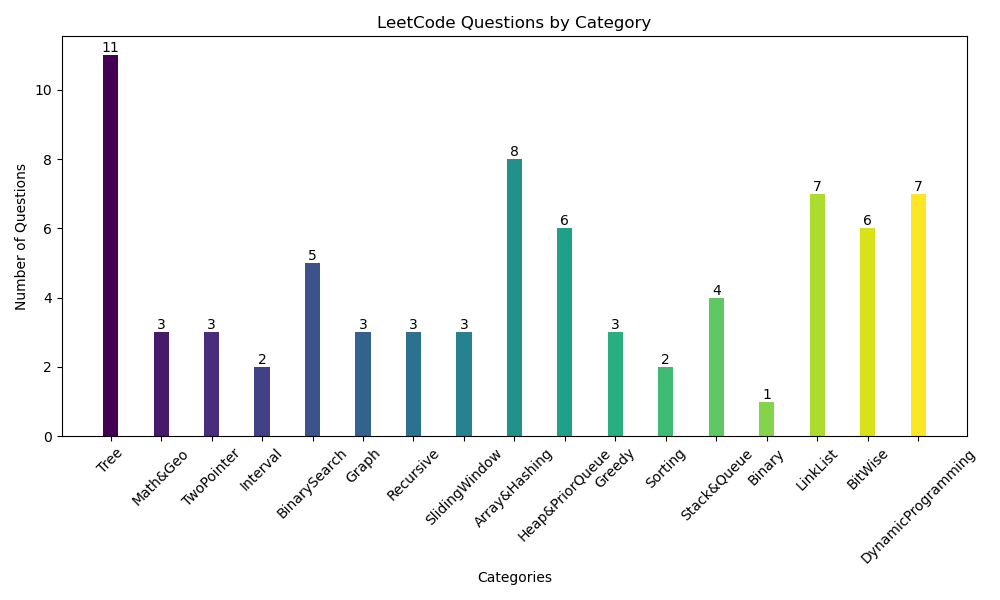
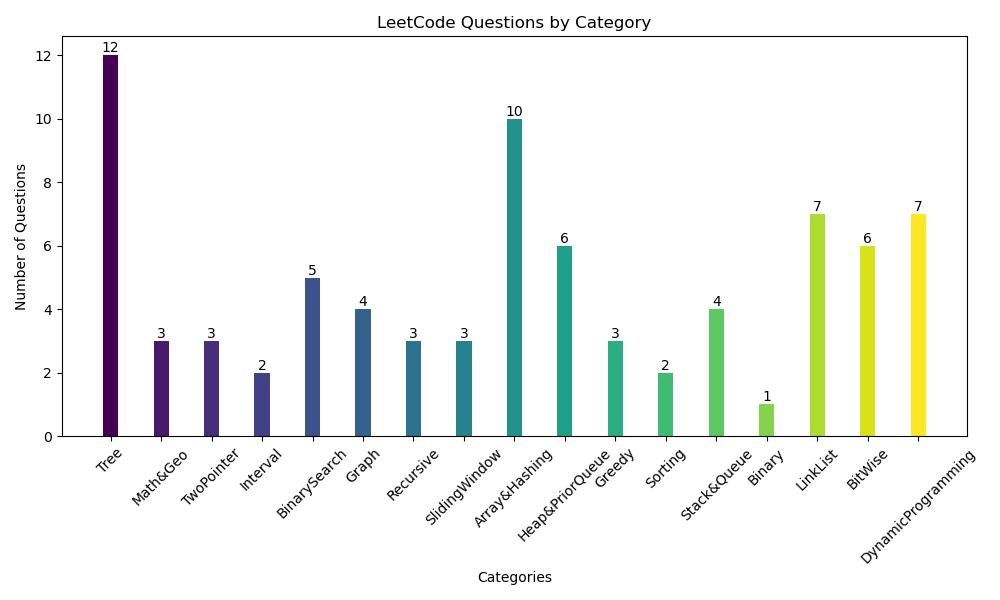
3/30 pratice

diff --git a/Graph/islandTreasure.cpp b/Graph/islandTreasure.cpp
@@ -1,0 +1,65 @@
+/*
+    從treasure出發BFS
+*/
+#include <iostream>
+#include <queue>
+#include <vector>
+using namespace std;
+class Solution {
+  public:
+	void islandsAndTreasure(vector<vector<int>> &grid) {
+		queue<pair<int, int>> treasures;
+		int m = grid.size();
+		int n = grid[0].size();
+		for (int i = 0; i < grid.size(); ++i) {
+			for (int j = 0; j < grid[i].size(); ++j) {
+				if (grid[i][j] == 0) {
+					treasures.push({i, j});
+				}
+			}
+		}
+		visit.resize(m, vector<bool>(n, false));
+		while (!treasures.empty()) {
+			for (auto &row : visit) {
+				fill(row.begin(), row.end(), false);
+			}
+			pair<int, int> t = treasures.front();
+			bfs(grid, t.first, t.second, 0);
+			treasures.pop();
+		}
+	}
+
+  private:
+	vector<vector<bool>> visit;
+	void bfs(vector<vector<int>> &grid, int i, int j, int step) {
+		if (i < 0 || j < 0 || i >= grid.size() || j >= grid[i].size()) {
+			return;
+		}
+		if (grid[i][j] == -1)
+			return;
+
+		if (grid[i][j] > 0) {
+			grid[i][j] = min(grid[i][j], step);
+		}
+		if (visit[i][j])
+			return;
+		visit[i][j] = true;
+		bfs(grid, i + 1, j, step + 1);
+		bfs(grid, i - 1, j, step + 1);
+		bfs(grid, i, j + 1, step + 1);
+		bfs(grid, i, j - 1, step + 1);
+	}
+};
+int main() {
+	vector<vector<int>> map = {{2147483647, 2147483647, 2147483647},
+	                           {2147483647, -1, 2147483647},
+	                           {0, 2147483647, 2147483647}};
+	Solution sol;
+	sol.islandsAndTreasure(map);
+	for (int i = 0; i < map.size(); ++i) {
+		for (int j = 0; j < map[i].size(); ++j) {
+			cout << map[i][j] << " ";
+		}
+		cout << endl;
+	}
+}

diff --git a/WeekContest/maxActiveSectionTrade.cpp b/WeekContest/maxActiveSectionTrade.cpp
@@ -1,0 +1,77 @@
+#include <iostream>
+#include <vector>
+using namespace std;
+class Solution {
+  public:
+	int maxActiveSectionsAfterTrade(string s) {
+		vector<int> convert;
+		int cnt = s[0] == '1' ? 1 : -1;
+		char curr_bit = s[0];
+		for (int i = 1; i < s.length(); ++i) {
+
+			if (s[i] == '0') {
+				if (curr_bit == '0')
+					--cnt;
+				else {
+					convert.push_back(cnt);
+					cnt = -1;
+				}
+			} else {
+				if (curr_bit == '1')
+					++cnt;
+				else {
+					convert.push_back(cnt);
+					cnt = 1;
+				}
+			}
+			curr_bit = s[i];
+		}
+		convert.push_back(cnt);
+		for (int &cnt : convert) {
+			cout << cnt << " ";
+		}
+		cout << endl;
+		int max_trade = 0;
+		int max_l = -1;
+		int l = -1;
+		int curr_trade = 0;
+		for (int i = 0; i < convert.size(); ++i) {
+			if (convert[i] < 0) {
+				if (l < 0) {
+					l = i;
+					curr_trade += abs(convert[i]);
+				} else {
+					curr_trade += abs(convert[i]);
+					if (curr_trade > max_trade) {
+						max_trade = curr_trade;
+						max_l = l;
+
+						// reset trade to next
+						l = i;
+						curr_trade = abs(convert[i]);
+					}
+				}
+			}
+		}
+		cout << max_trade << endl;
+		if (max_trade == 0) {
+			int sum = 0;
+			for (int &c : convert)
+				sum += abs(c);
+			return sum;
+		}
+
+		if (max_l - 1 >= 0)
+			max_trade += convert[max_l - 1];
+
+		if (max_l + 1 < convert.size())
+			max_trade += convert[max_l + 1];
+		if (max_l + 3 < convert.size())
+			max_trade += convert[max_l + 3];
+		return max_trade;
+	}
+};
+int main() {
+	Solution sol;
+	cout << sol.maxActiveSectionsAfterTrade("101");
+}

diff --git a/Tree/94.inorderTraversal.cpp b/Tree/94.inorderTraversal.cpp
@@ -1,0 +1,29 @@
+/**
+ * Definition for a binary tree node.
+ * struct TreeNode {
+ *     int val;
+ *     TreeNode *left;
+ *     TreeNode *right;
+ *     TreeNode() : val(0), left(nullptr), right(nullptr) {}
+ *     TreeNode(int x) : val(x), left(nullptr), right(nullptr) {}
+ *     TreeNode(int x, TreeNode *left, TreeNode *right) : val(x), left(left),
+ * right(right) {}
+ * };
+ */
+class Solution {
+  public:
+	vector<int> inorderTraversal(TreeNode *root) {
+		// left -> root -> right
+		vector<int> res;
+		dfs(res, root);
+		return res;
+	}
+	void dfs(vector<int> &res, TreeNode *node) {
+		if (node == nullptr)
+			return;
+
+		dfs(res, node->left);
+		res.push_back(node->val);
+		dfs(res, node->right);
+	}
+};

diff --git a/WeekContest/miniCostDivSubarr.cpp b/WeekContest/miniCostDivSubarr.cpp
@@ -1,0 +1,17 @@
+#include <iostream>
+#include <vector>
+using namespace std;
+class Solution {
+  public:
+	long long minimumCost(vector<int> &nums, vector<int> &cost, int k) {}
+};
+
+int main() {
+	vector<int> nums = {3, 1, 4};
+	vector<int> cost = {4, 6, 6};
+	int k = 1;
+	Solution sol;
+
+	cout << sol.minimumCost(nums, cost, k) << endl;
+	return 0;
+}

diff --git a/Array&Hashing/longCommonStr.cpp b/Array&Hashing/longCommonStr.cpp
@@ -1,0 +1,14 @@
+class Solution {
+  public:
+	string longestCommonPrefix(vector<string> &strs) {
+		string prefix = strs[0];
+		for (int i = 1; i < strs.size(); ++i) {
+			int j = 0;
+			while (j < prefix.length() && j < strs[i].length() &&
+			       prefix[j] == strs[i][j])
+				++j;
+			prefix = prefix.substr(0, j);
+		}
+		return prefix;
+	}
+};

diff --git a/WeekContest/reverseStringDeg.cpp b/WeekContest/reverseStringDeg.cpp
@@ -1,0 +1,17 @@
+#include <iostream>
+using namespace std;
+class Solution {
+  public:
+	int reverseDegree(string s) {
+		int sum = 0;
+		for (int i = 0; i < s.length(); ++i) {
+			sum += (i + 1) * ('z' - s[i] + 1);
+		}
+		return sum;
+	}
+};
+
+int main() {
+	Solution sol;
+	cout << sol.reverseDegree("zaza") << endl;
+}

diff --git a/Array&Hashing/concateArr.cpp b/Array&Hashing/concateArr.cpp
@@ -1,0 +1,12 @@
+class Solution {
+  public:
+	vector<int> getConcatenation(vector<int> &nums) {
+		int n = nums.size();
+		nums.resize(2 * n);
+
+		for (int i = 0; i < n; ++i) {
+			nums[i + n] = nums[i];
+		}
+		return nums;
+	}
+};

diff --git a/README.md b/README.md
@@ -12,6 +12,7 @@
 - 📝 validBT
 - 📝 levelOrder
 - 📝 Depth
+- 📝 94.inorderTraversal
 
 ## Math&Geo
 - 📝 matrixZero
@@ -37,6 +38,7 @@
 ## Graph
 - 📝 cloneGraph
 - 📝 isoLand
+- 📝 islandTreasure
 - 📝 maxLand
 
 ## Recursive
@@ -50,6 +52,8 @@
 - 📝 BuySellStock
 
 ## Array&Hashing
+- 📝 concateArr
+- 📝 longCommonStr
 - 📝 ValidAnagram
 - 📝 2sum
 - 📝 TopKFreq
@@ -112,7 +116,7 @@
 - 📝 minCostClimb
 
 ## Statistics
-Current total questions: 77
+Current total questions: 81
 
 <img src="chart.png" alt="questions bar chart" width="500">
 
